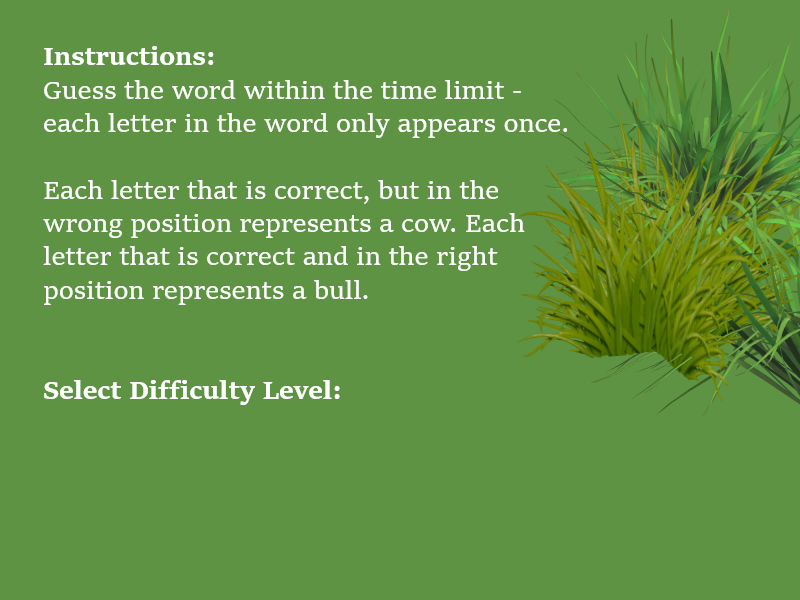
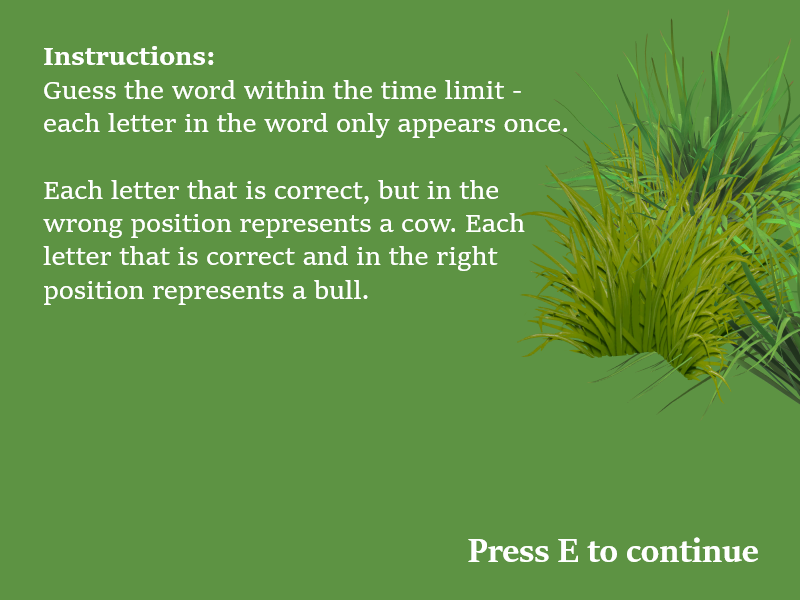
took away difficulty levels

Changed region(s): [[0.0312, 0.63, 0.4375, 0.69], [0.5625, 0.9, 0.9688, 0.96]]

diff --git a/Bulls-and-Cows/InstructionsAndDifficulty.java b/Bulls-and-Cows/InstructionsAndDifficulty.java
@@ -17,21 +17,14 @@ public class InstructionsAndDifficulty extends World
     {    
         // Create a new world with 800x600 cells with a cell size of 1x1 pixels.
         super(800, 600, 1); 
-        
-        //Creating buttons for difficulty levels
-        Button beginner = new Button();
-        addObject(beginner, 150, 500);
-        String begLabel = "Beginner\n3 Letters";
-        addObject(new Text(begLabel), 150, 500);
-        
-        Button regular = new Button();
-        addObject(regular, 400, 500);
-        String regLabel = "Regular\n4 Letters";
-        addObject(new Text(regLabel), 400, 500);
-        
-        Button intermediate = new Button();
-        addObject(intermediate, 650, 500);
-        String interLabel = "Intermediate\n5 Letters";
-        addObject(new Text(interLabel), 650, 500);
+    }
+    
+    public void act()
+    {
+        // If player presses "E", the main game begins.
+        if(Greenfoot.isKeyDown("e"))
+        {
+            Greenfoot.setWorld(new MainGame());
+        }
     }
 }
